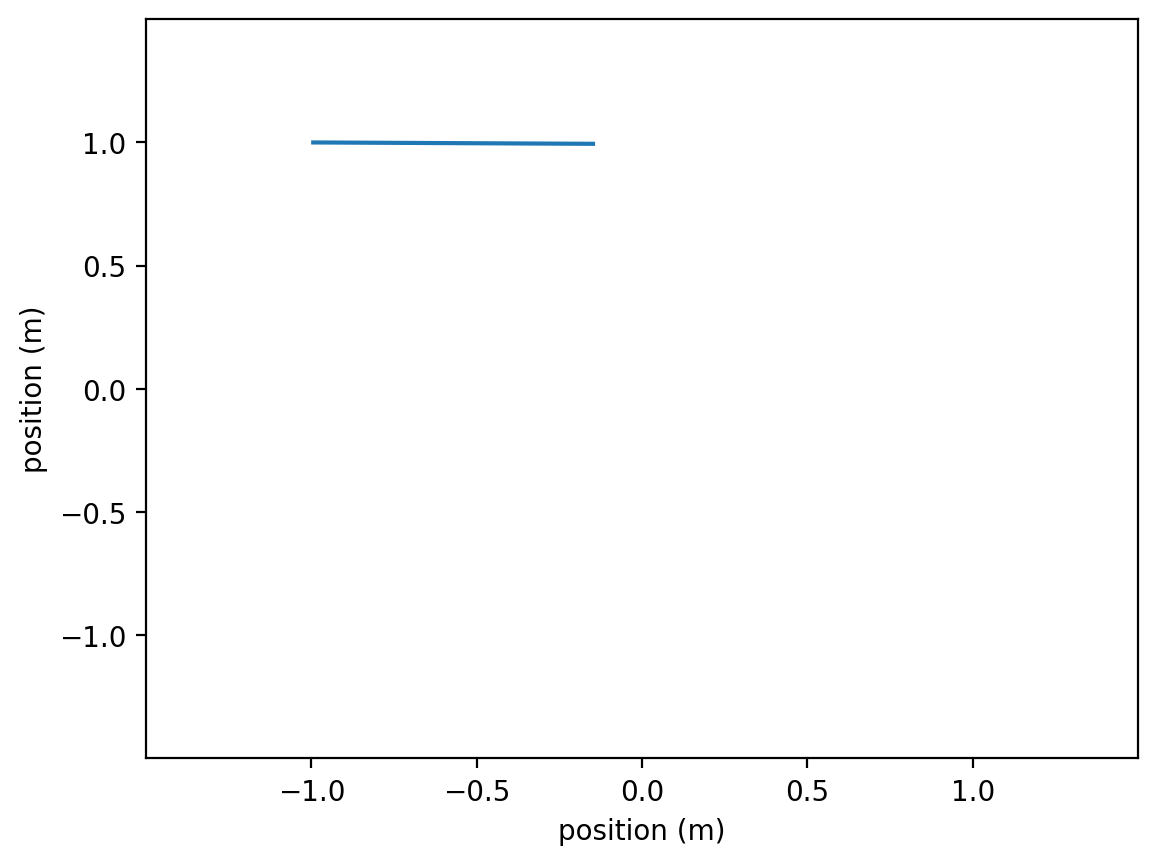
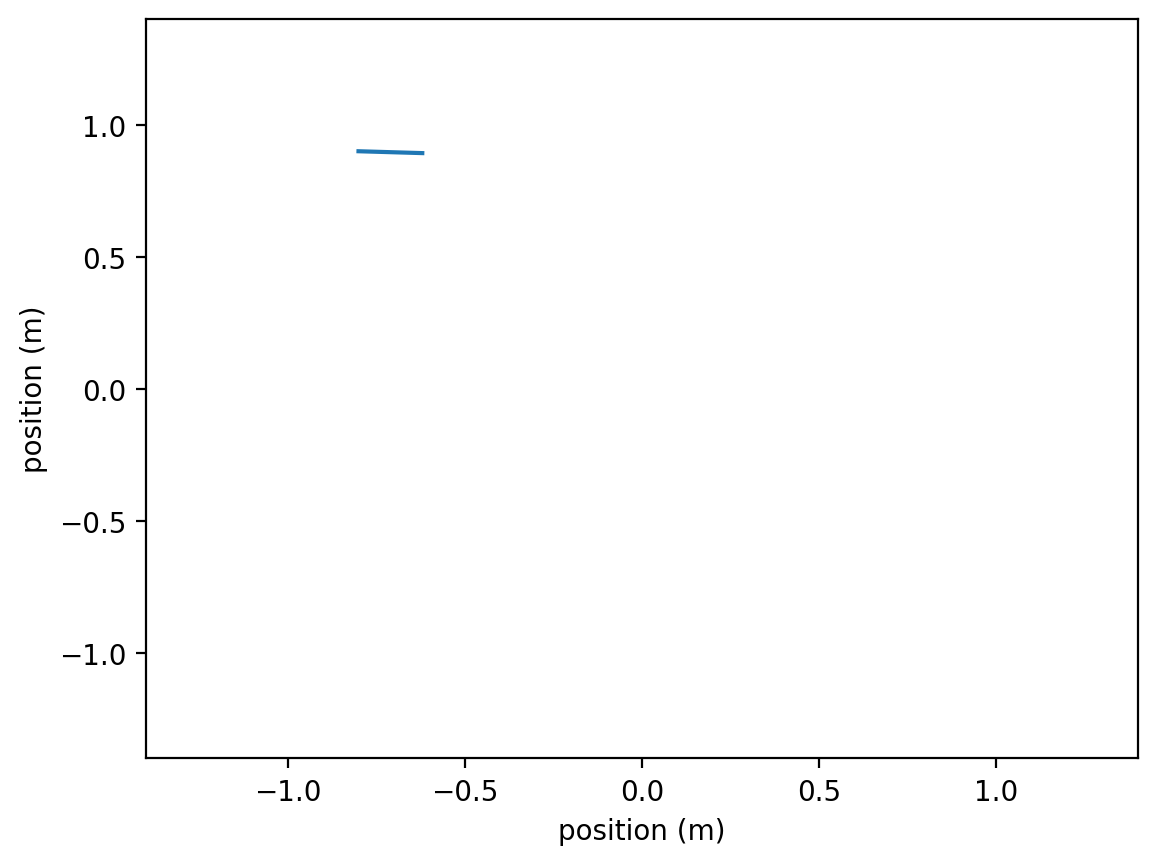
final project

diff --git a/Arm_Control/tpp_class_ball.py b/Arm_Control/tpp_class_ball.py
@@ -8,6 +8,7 @@ import os
 from scipy.fftpack import fft,fftfreq
 from scipy.integrate import odeint, RK45
 from scipy.signal import find_peaks
+from scipy.spatial import distance
 
 from sympy import symbols
 from sympy.physics import mechanics
@@ -30,7 +31,7 @@ class Ball():
         self.prev_cond = initial_cond
         self.storeX = [initial_cond]
         self.g = 9.81 #m/s**2
-        self.storeB = []
+        self.storeB = [initial_cond]
         self.storeF = []
     
     @staticmethod
@@ -49,6 +50,7 @@ class Ball():
         self.prev_cond = Xp[-1,:]
         self.storeB.append(Xp[-1,:])
         return Xp 
+    
     def calc_theta(self,x0,y0,x1,y1):
         return np.arcsin((x1-x0)/np.sqrt((x1-x0)**2+(y1-y0)**2))
     
@@ -69,6 +71,7 @@ class Ball():
             angle at which the ball hits the obstacle
         obstacle: Type list of tuples
         """
+        ballcatch = False
         airres = 1
         vel = vel0*airres
         x = vel*dt+x0
@@ -77,16 +80,9 @@ class Ball():
         if np.any(abs(close)<0.01) or y0<=0: #pretty close so lets just stick the ball to the obstacle (perfect catch)
             vel = 0
             x,y = x0,y0
-        #     theta = self.calc_theta(x0,y0,xf,yf)
-        #     vel = -self.e*vel0
-        #     x = vel*dt*np.cos(theta) + x0
-        #     y = -9.81*dt*dt+vel*dt*np.sin(theta) + y0
-        # else:
-        #     vel = vel0
-        #     x = vel*dt+x0
-        #     y = -9.81*dt*dt+y0
+            ballcatch = True
         self.storeB.append([vel,x,y])
-        return vel,x,y
+        return vel,x,y,ballcatch
     
     def plot_ball_trace(self):
         plt.close("ball Trace")
@@ -109,7 +105,21 @@ class Ball():
         
 
 #%%
-class TpPendulum():
+# def resettable(f):
+#     import copy
+
+#     def __init_and_copy__(self, *args, **kwargs):
+#         f(self, *args)
+#         self.__original_dict__ = copy.deepcopy(self.__dict__)
+
+#         def reset(o = self):
+#             o.__dict__ = o.__original_dict__
+
+#         self.reset = reset
+
+#     return __init_and_copy__
+
+class TpPendulum(object):
     def __init__(self,n,initial_cond,coeff,mgain,t,f_s):
         self.storeP = [np.hstack(initial_cond)]
         self.coeff = coeff #lengths, masses, dampenin
@@ -123,13 +133,21 @@ class TpPendulum():
         self.work = 0
         self.angd = [np.pi/8,-np.pi/8]
         self.musclegain = mgain
+        self.fprev = [mgain*1,mgain*1]
         self.storeT = [np.broadcast_to(0,2)] #store force values
         x,y = self.get_xy()
         self.x = x[0,2]
         self.y = y[0,2]
+        
+
     def calc_theta(self,x0,y0,x1,y1):
         return np.arcsin((x1-x0)/np.sqrt((x1-x0)**2+(y1-y0)**2))
     
+    def get_thetaB(self,x0,y0):
+        return np.arctan(y0/x0)
+    
+
+        
     def get_xy(self):
         """Get (x, y) coordinates from generalized coordinates p"""
         p = np.atleast_2d(self.prev_cond)
@@ -142,25 +160,36 @@ class TpPendulum():
         y = np.hstack([zeros, -lengths * np.cos(p[:, :n])])
         return np.cumsum(x, 1), np.cumsum(y, 1)
     
-    def controller1(self,angi,i):
-        # angj = angi + np.pi/2
-        angd = self.angd[i]
-        dtheta = angd-angi
-        bound = 0.001
-        force = 0
-        # if angi < np.pi/2 and i == 0:
-            # forcex = self.musclegain*np.cos(angj)*dtheta
-        if dtheta > bound:
-            force = self.musclegain*dtheta
-        elif dtheta < -bound:
-            force = self.musclegain*dtheta
-        else:
-            pass
-        return force
+    def controller1(self,vel,x0,y0,i):
+        # feedforward
+        l1,l2 = self.coeff[0]
+        ArmRadius = l1 + l2        
+        xA,yA = self.get_xy()
+        
+        def get_BallVector(t,x0,y0,vel0):
+            airres = 1
+            error = 0
+            vel = vel0*airres
+            x = vel*t+x0+error/x0
+            y = -9.81*t**2/2+vel*t+y0+error/y0
+            return (x,y)
+        
+        predictBall = [get_BallVector(t,x0,y0,vel) for t in self.t]
+        armRadii = [(ArmRadius*np.cos(theta),ArmRadius*np.sin(theta)) for theta in np.arange(0,2*np.pi,2*np.pi/len(predictBall))]
+        store = distance.cdist(predictBall,armRadii,'euclidean')
+        val = np.argwhere(store == np.min(store))[0]
+        time = self.t[val[0]]
+        # xB,yB = predictBall[val[0]]
+        # diff = np.sqrt((xB-xA)**2+(yB-yA)**2)
+        # force = None
+        return time
+    
+    def controller1_err(self):
+        
+        pass
     
     def controller2(self,x1,y1,i):
-        #look in blue book: determine the ball angle to the origin and reduce that angle of the arm
-        #relative to the ball angle from origin.
+        #Feedback model
         # angj = angi + np.pi/2
         x,y = self.get_xy()
         dist = np.sqrt((x1-x[0,i+1])**2+(y1-y[0,i+1])**2)
@@ -175,7 +204,7 @@ class TpPendulum():
         return force
     
     @staticmethod
-    def dALLdt(y, t, self, f1, f2):
+    def dALLdt(y, t, self, f1, f2, ballcatch):
         """Return the first derivatives of y = theta1, z1, theta2, z2."""
         theta1, theta2, z1 , z2 = y
         m1,m2 = self.coeff[1]
@@ -184,30 +213,44 @@ class TpPendulum():
         g = self.g
         c, s = np.cos(theta1-theta2), np.sin(theta1-theta2)
         
-        theta1dot = z1
-        if theta1<np.pi/2:
-            z1dot = (f1/m2 - k*theta1dot  + m2*g*np.sin(theta2)*c - m2*s*(L1*z1**2*c + L2*z2**2) -
-                 (m1+m2)*g*np.sin(theta1)) / L1 / (m1 + m2*s**2)
+        if ballcatch:
+            theta1dot = 0
+            theta2dot = 0
+            z1dot = 0
+            z2dot = 0
         else:
-            z1dot = -k*theta1dot
-        theta2dot = z2
-        if theta2 < 0: 
-            z2dot = (f2/m2 - k*theta2dot + (m1+m2)*(L1*z1**2*s - g*np.sin(theta2) + g*np.sin(theta1)*c) + 
-                 m2*L2*z2**2*s*c) / L2 / (m1 + m2*s**2)
-        else:
-            z2dot = -k*theta2dot
-            
+            theta1dot = z1
+            if theta1<np.pi/2:
+                z1dot = (f1/m2 - k*theta1dot  + m2*g*np.sin(theta2)*c - m2*s*(L1*z1**2*c + L2*z2**2) -
+                     (m1+m2)*g*np.sin(theta1)) / L1 / (m1 + m2*s**2)
+            else:
+                z1dot = -k*theta1dot
+                
+            theta2dot = z2
+            if theta2 < 0: 
+                z2dot = (f2/m2 - k*theta2dot + (m1+m2)*(L1*z1**2*s - g*np.sin(theta2) + g*np.sin(theta1)*c) + 
+                     m2*L2*z2**2*s*c) / L2 / (m1 + m2*s**2)
+            else:
+                z2dot = -k*theta2dot        
+        
         return theta1dot,theta2dot,z1dot, z2dot
 
-    def solve(self,t,x0,y0):
+    def fbsolve(self,t,x0,y0,ballcatch):
         force = [self.controller2(x0,y0,i) for i in range(0,2)]
         f1 = force[0]
         f2 = force[1]
-        Xp = odeint(self.dALLdt, self.prev_cond, t, tcrit = t, args=(self,f1,f2))
+        Xp = odeint(self.dALLdt, self.prev_cond, t, tcrit = t, args=(self,f1,f2,ballcatch))
         self.prev_cond = Xp[-1,:]
         self.storeP.append(Xp[-1,:])
         self.storeT.append([f1,f2])
-        return Xp        
+        return Xp
+    
+    def ffsolve(self,t,vel,x0,y0,f1,f2,ballcatch):
+        Xp = odeint(self.dALLdt, self.prev_cond, t, tcrit = t, args=(self,f1,f2,ballcatch))
+        self.prev_cond = Xp[-1,:]
+        self.storeP.append(Xp[-1,:])
+        self.storeT.append([f1,f2])
+        return Xp
         
     def get_xy_coords(self):
         """Get (x, y) coordinates from generalized coordinates p"""
@@ -248,7 +291,7 @@ class TpPendulum():
         lim = max(self.coeff[0])*2
         fig, ax = plt.subplots(figsize=(6, 6))
         fig.subplots_adjust(left=0, right=1, bottom=0, top=1)
-        ax.axis('off')
+        # ax.axis('off')
         ax.set(xlim=(-lim, lim), ylim=(-lim, lim))
     
         line, = ax.plot([], [], 'o-', lw=2)
@@ -293,6 +336,35 @@ class Muscle_Mech():
             plt.waitforbuttonpress()
         else:
             return 0
+        
+    def ff_iterator(self,Arm,Ball,maxiter,vel,x,y,f1adj,f2adj,ballcatch):
+        obstacle = [(0,0)]
+        f1 = Arm.musclegain+f1adj
+        f2 = Arm.musclegain+f2adj
+        for i in range(0,len(t_s)-1):
+            t = [t_s[i],t_s[i+1]]
+            dt = abs(t_s[i+1] - t_s[i])
+            vel,x,y,ballcatch = Ball.simple_ball(vel,x,y,dt,theta,obstacle)
+            Xp = Arm.ffsolve(t,vel,x,y,f1,f2,ballcatch)
+            obstacle = [(Arm.x,Arm.y)]
+        'end for'
+        tempB = np.stack(Ball.storeB)[:,1:]
+        tempP = np.stack(Arm.storeP)[:,0:2]
+        store = distance.cdist(tempB,tempP,'euclidean')
+        val = np.argwhere(store == np.min(store))[0]
+        time = Arm.t[val[0]]
+        xB,yB = tempB[val[0]]
+        xA,yA = tempP[val[0]] #need to convert to x,y coordinates!!!!!!!!!
+        diff = np.sqrt((xB-xA)**2+(yB-yA)**2)
+        signx = xA-xB
+        signy = yA-yB
+        if signx > 0 or signy > 0:
+            f1adj = -diff+f1adj
+            f2adj = -diff+f2adj
+        else:
+            f1adj = diff+f1adj
+            f2adj = diff+f1adj
+        return f1adj, f2adj, ballcatch
         
     def plot_torque_spring(self,spring):
         torque = np.stack(self.storeT)
@@ -349,8 +421,9 @@ if __name__ == "__main__":
     # linear algebra help: http://homepages.math.uic.edu/~jan/mcs320/mcs320notes/lec37.html
     ### PARAMS ###
     #Arm
+    plt.close('all')
     n = 2
-    pos1 = np.pi/4
+    pos1 = -np.pi/4
     pos2 = -np.pi/4
     vel = 0
     l1 = (13)*0.0254
@@ -360,41 +433,57 @@ if __name__ == "__main__":
     damp = 5
     #mech
     mgain = 100
+    forceint1 = mgain
+    forceint2 = mgain
+    maxiter = 20
+    ballcatch = False
     #ball
     e = 1 #coefficient of restitution
     mass = 2
     obstacle = []
-    vel = 3
-    y = 1
-    x = -1
+    vel = .5
+    y = .9
+    x = -.8
     theta = 0
     ### Time ###
-    Ttot = 5 # total time in second
+    Ttot = 10 # total time in second
     f_s = 500 # sample frequency (samples/s)
     t_s = np.arange(0,Ttot,1/f_s)
     t_ms = np.arange(0,Ttot*f_s,1)
     
     initial_cond_tpp = [[pos1,pos2],[vel,vel]]
     coeff_tpp = [[l1,l2],[m1,m2],damp]
-    initial_cond_ball = [10,0]
+    initial_cond_ball = [vel,x,y]
     
     ### INIT ###
-    Arm = TpPendulum(n,initial_cond_tpp,coeff_tpp,mgain,t_s,f_s)
+    Armobj = TpPendulum(n,initial_cond_tpp,coeff_tpp,mgain,t_s,f_s)
     mech = Muscle_Mech(mgain,f_s,t_s)
-    Ball = Ball(t_s,e,mass,initial_cond_ball)
+    Ballobj = Ball(t_s,e,mass,initial_cond_ball)
     
+    #### Feedforward ####    
+    f1adj = 0
+    f2adj = 0
+    count = 0
+    obstacle = [(0,0)]
+    while count < maxiter or not ballcatch:
+        Ballobj = Ball(t_s,e,mass,initial_cond_ball)
+        Armobj = TpPendulum(n,initial_cond_tpp,coeff_tpp,mgain,t_s,f_s)
+        f1adj,f2adj,ballcatch = mech.ff_iterator(Armobj, Ballobj, maxiter, vel, x, y,f1adj,f2adj, ballcatch)
+        count += 1
+    
+    #### Feedback ####
     for i in range(0,len(t_s)-1):
         t = [t_s[i],t_s[i+1]]
         dt = abs(t_s[i+1] - t_s[i])
-        vel,x,y = Ball.simple_ball(vel,x,y,dt,theta,obstacle)
-        Xp = Arm.solve(t,x,y)
-        obstacle = [(Arm.x,Arm.y)]
-        # Bp = ball.solve(t)
-    'end for'
-    X = np.stack(Arm.storeP)
-    T = np.stack(Arm.storeT)
-    B = np.stack(Ball.storeB)
-    Arm.plot_pendulum_trace()
-    Ball.plot_ball_trace()
-    anim = Arm.animate_pendulum()
+        
+        # vel,x,y,ballcatch = Ballobj.simple_ball(vel,x,y,dt,theta,obstacle)
+        # Xp = Armobj.fbsolve(t,x,y,ballcatch)
+        # obstacle = [(Armobj.x,Armobj.y)]
+        # Bp = Ballobj.solve(t)
+    # X = np.stack(Armobj.storeP)
+    # T = np.stack(Armobj.storeT)
+    # B = np.stack(Ball.storeB)
+    Armobj.plot_pendulum_trace()
+    Ballobj.plot_ball_trace()
+    anim = Armobj.animate_pendulum()
         
